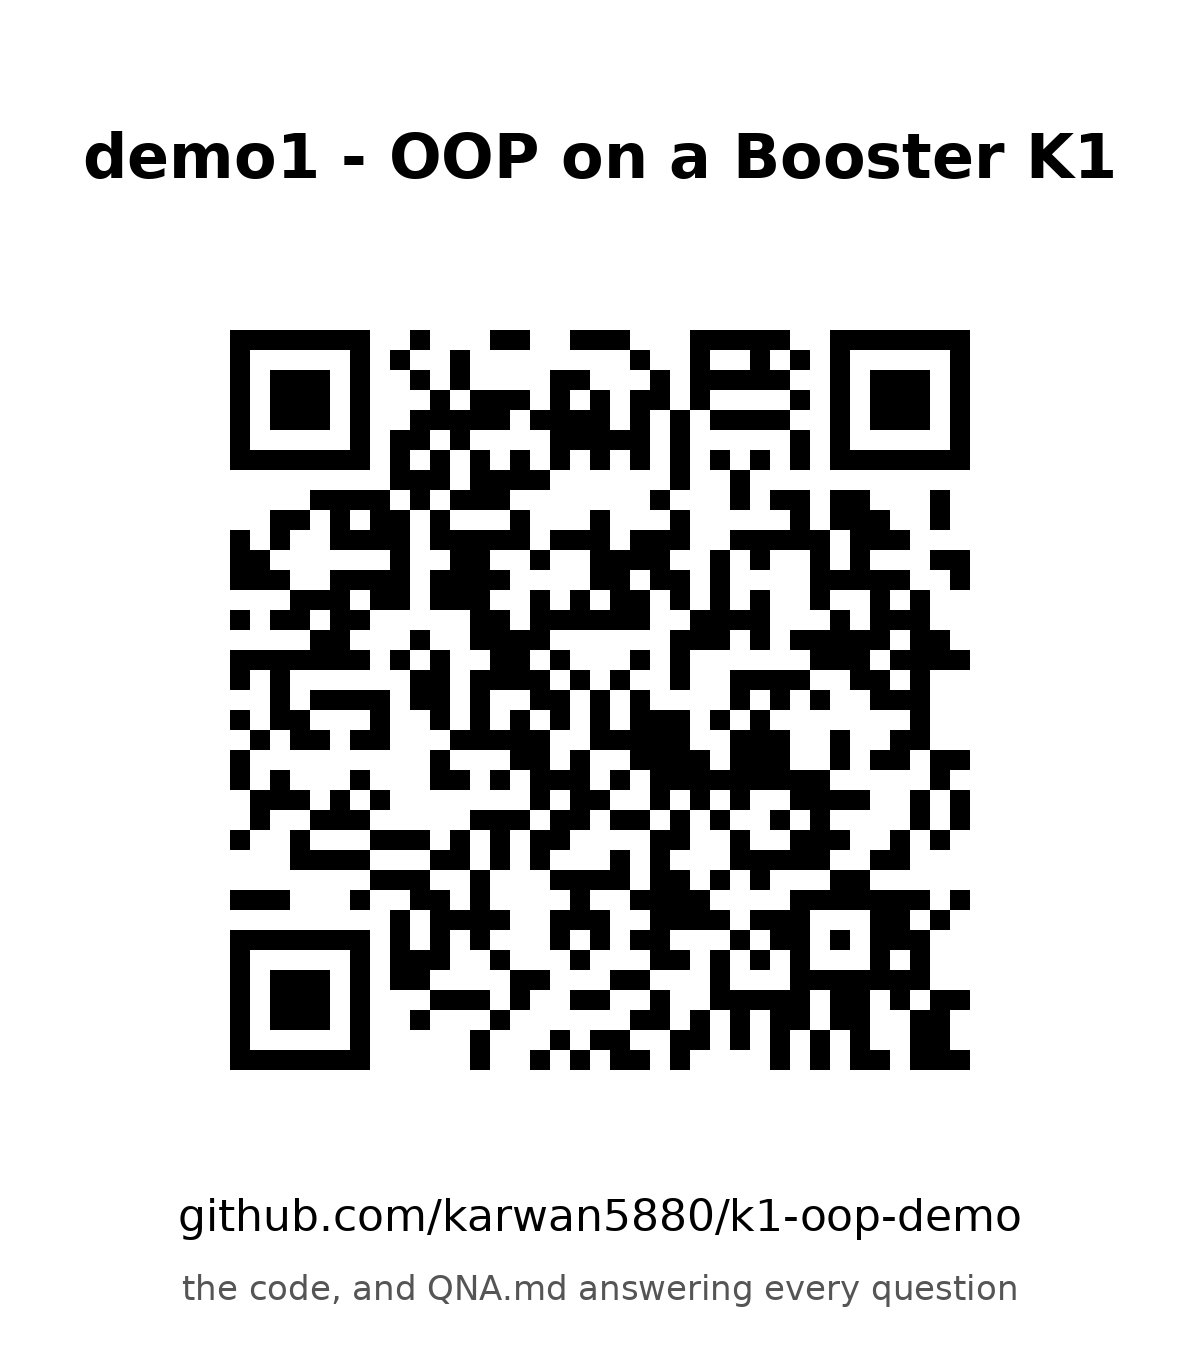
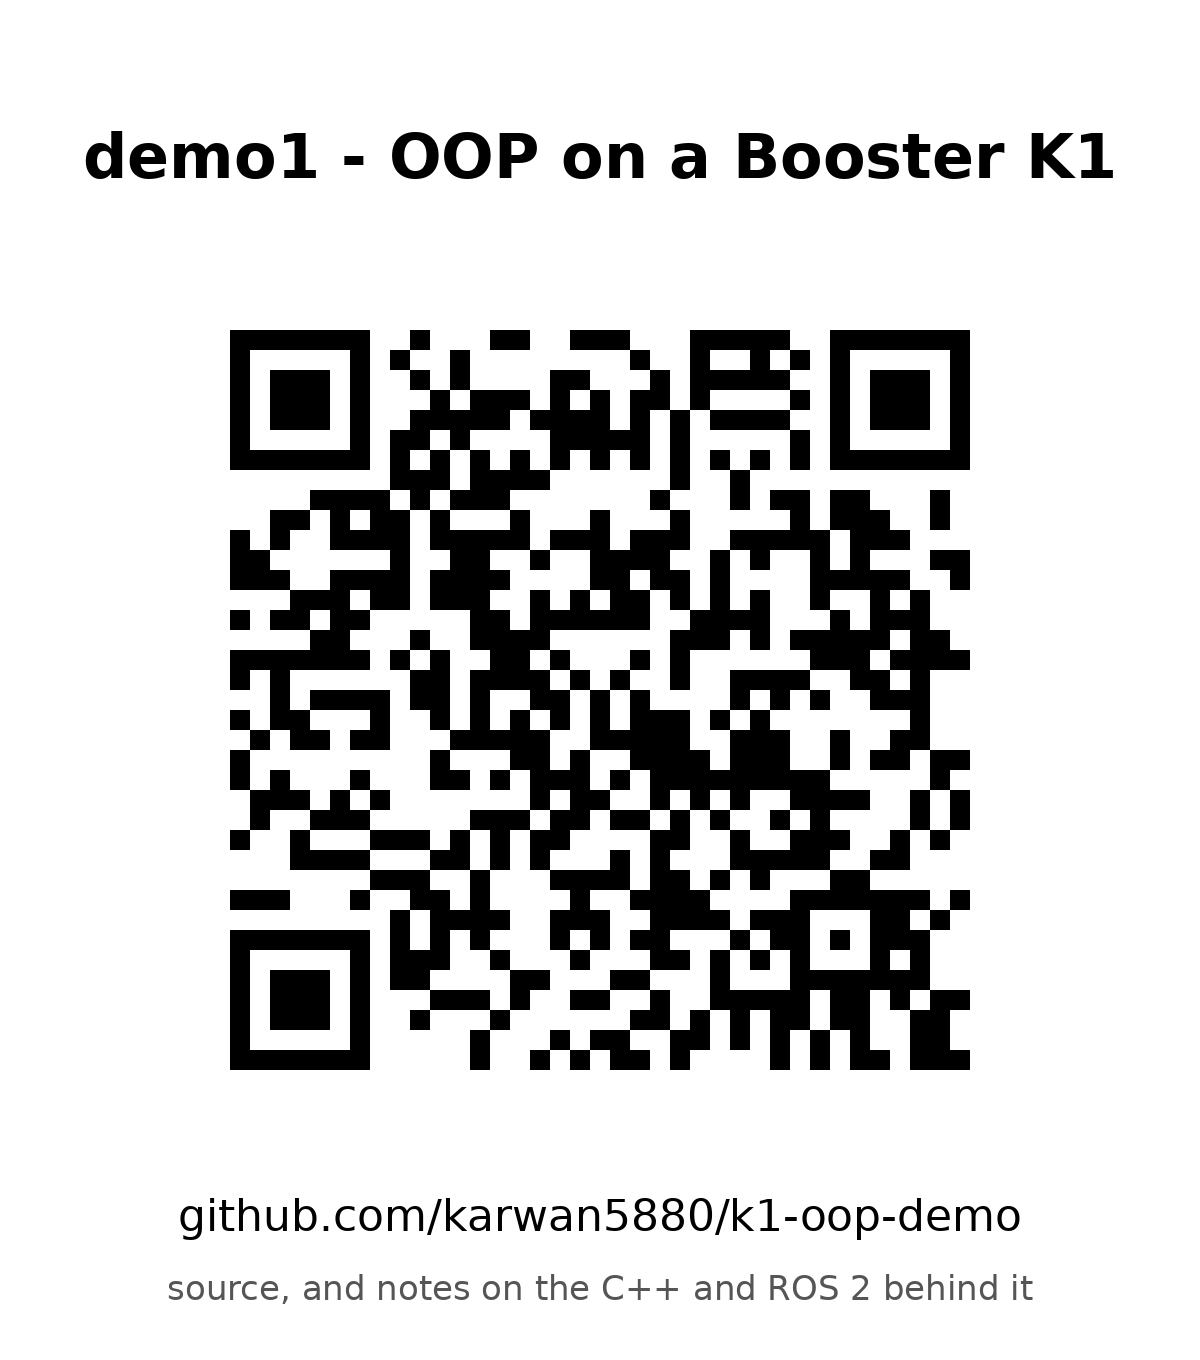
the QnA does not answer every question, so stop saying it does
The slide caption read "QNA.md answering every question" and the README said
"every question a student asks, answered". Neither is a claim that can be
backed, and Karwan called it: it is an overstatement.

Both now say what the document is -- notes on the C++ and ROS 2 this program
uses -- and the README adds that it is not exhaustive and is written against
this code rather than as a general C++ tutorial. A student who reads it and
then hits something it does not cover should not feel misled.

Slide regenerated and re-verified with zbarimg.

Changed region(s): [[0.1233, 0.9265, 0.8633, 0.9574]]

diff --git a/README.md b/README.md
@@ -122,14 +122,16 @@ The status code names a category. The **reason** is in the robot's own
 ```
 src/demo1/include/robot.h     the robot: one ROS node, the loco API, head pose
 src/demo1/src/actions.cpp     the lesson: Action and its four subclasses
-QNA.md                        every question a student asks, answered
+QNA.md                        notes on the C++ and ROS 2 this uses
 TYPING_SCRIPT.md              the fifteen minutes, beat by beat
 ```
 
-`QNA.md` is the longer half of this repository and the part worth reading:
-constructors and initialiser lists, why the destructor is virtual, references
-versus pointers, the three meanings of `static`, what `rclcpp` is, what spinning
-is for, and why the arm APIs are start/stop.
+`QNA.md` is the longer half of this repository. It covers the C++ this program
+actually uses — constructors and initialiser lists, why the destructor is
+virtual, references versus pointers, the three meanings of `static` — and the
+ROS 2 side: what `rclcpp` is, what spinning is for, and why the arm APIs are
+start/stop. It is not exhaustive, and it is written against this code rather
+than as a general C++ tutorial.
 
 ## License
 
